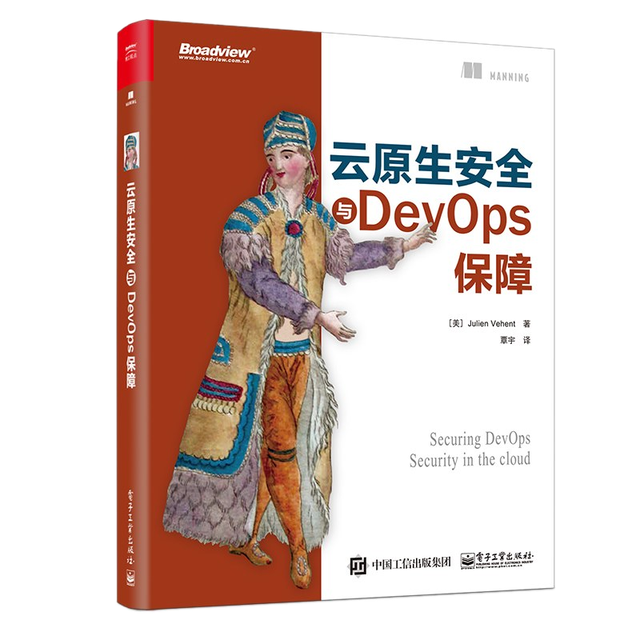
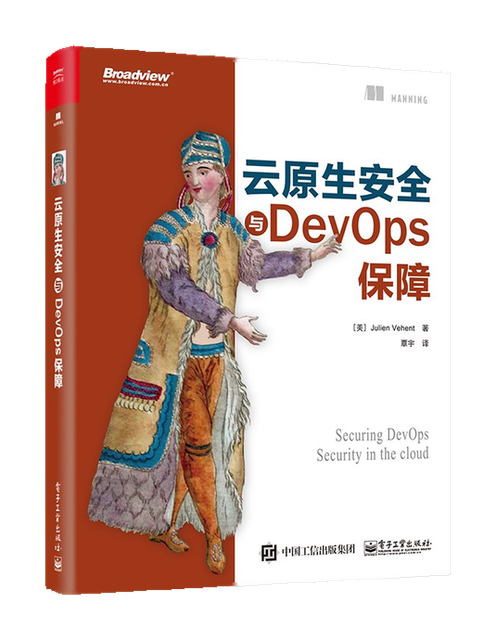
fix bookshelf glow clip and recut cover edges
Move the sand glow off the 1:1 cover box so hover scale cannot square-clip it, and inward-cut the JD PNGs to drop studio fringe without punching interior whites.

diff --git a/assets/css/custom.css b/assets/css/custom.css
@@ -418,11 +418,20 @@ html.theme--dark .post__content a:hover {
   color: var(--sand);
 }
 
+/* Theme .post / animation stacking must not clip the book glow. */
+.post,
+.post.animated,
+.post__content,
+.wrapper,
+.wrapper__main {
+  overflow: visible;
+}
+
 .bookshelf,
 .series-grid {
   display: grid;
   margin: 0;
-  padding: 2rem 0 1.2rem;
+  padding: 2.6rem 0 1.4rem;
   overflow: visible;
 }
 
@@ -439,15 +448,18 @@ html.theme--dark .post__content a:hover {
 
 .bookshelf__item,
 .series-grid__item {
+  position: relative;
   display: flex;
   flex-direction: column;
   align-items: center;
   text-align: center;
   text-decoration: none;
-  padding: 0.7rem 0.45rem 0.85rem;
+  padding: 1.15rem 0.55rem 0.95rem;
   border: 0;
   background: none;
   transform: none;
+  isolation: auto;
+  contain: none;
   overflow: visible;
 }
 
@@ -494,32 +506,36 @@ html.theme--dark .post__content a:hover {
 }
 
 .bookshelf__cover {
-  isolation: isolate;
+  isolation: auto;
+  contain: none;
+  z-index: 1;
   aspect-ratio: 1 / 1;
+  padding: 14%;
   overflow: visible;
 }
 
-.bookshelf__cover::before {
+/* Glow lives on the card, not the 1:1 cover box, so blur/overflow cannot square-clip it. */
+.bookshelf__item::before {
   content: "";
   position: absolute;
   z-index: 0;
   left: 50%;
-  top: 50%;
-  width: 138%;
-  height: 138%;
+  top: 36%;
+  width: 128%;
+  height: 72%;
   pointer-events: none;
   background: radial-gradient(
     ellipse at 50% 50%,
-    rgba(196, 165, 116, 0.82) 0%,
-    rgba(196, 165, 116, 0.52) 30%,
-    rgba(196, 165, 116, 0.24) 54%,
-    rgba(196, 165, 116, 0.06) 72%,
-    rgba(196, 165, 116, 0) 82%
+    rgba(196, 165, 116, 0.58) 0%,
+    rgba(196, 165, 116, 0.32) 34%,
+    rgba(196, 165, 116, 0.12) 56%,
+    rgba(196, 165, 116, 0.03) 72%,
+    rgba(196, 165, 116, 0) 86%
   );
-  filter: blur(8px);
   transform: translate(-50%, -50%);
   transform-origin: center center;
-  transition: transform 0.22s ease;
+  opacity: 0.92;
+  transition: opacity 0.22s ease;
 }
 
 .series-grid__cover {
@@ -540,8 +556,8 @@ html.theme--dark .post__content a:hover {
   pointer-events: none;
   transform: none;
   transform-origin: center center;
-  transition: transform 0.22s ease;
-  filter: drop-shadow(0 0 14px rgba(196, 165, 116, 0.35));
+  transition: transform 0.22s ease, filter 0.22s ease;
+  filter: drop-shadow(0 0 12px rgba(196, 165, 116, 0.28));
 }
 
 .post__content .series-grid__cover img {
@@ -560,11 +576,18 @@ html.theme--dark .post__content a:hover {
   transform: scale(1.07);
 }
 
-.bookshelf__item:hover .bookshelf__cover::before,
-.bookshelf__item:focus .bookshelf__cover::before,
-.bookshelf__item:focus-visible .bookshelf__cover::before,
-.bookshelf__item:active .bookshelf__cover::before {
-  transform: translate(-50%, -50%) scale(1.07);
+.bookshelf__item:hover::before,
+.bookshelf__item:focus::before,
+.bookshelf__item:focus-visible::before,
+.bookshelf__item:active::before {
+  opacity: 1;
+}
+
+.bookshelf__item:hover .bookshelf__cover img,
+.bookshelf__item:focus .bookshelf__cover img,
+.bookshelf__item:focus-visible .bookshelf__cover img,
+.bookshelf__item:active .bookshelf__cover img {
+  filter: drop-shadow(0 0 16px rgba(196, 165, 116, 0.42));
 }
 
 .bookshelf__title,
@@ -599,7 +622,7 @@ html.theme--dark .post__content a:hover {
     transform: none;
   }
 
-  .bookshelf__cover::before,
+  .bookshelf__item::before,
   .post__content .bookshelf__cover img,
   .post__content .series-grid__cover img {
     transition: none;
